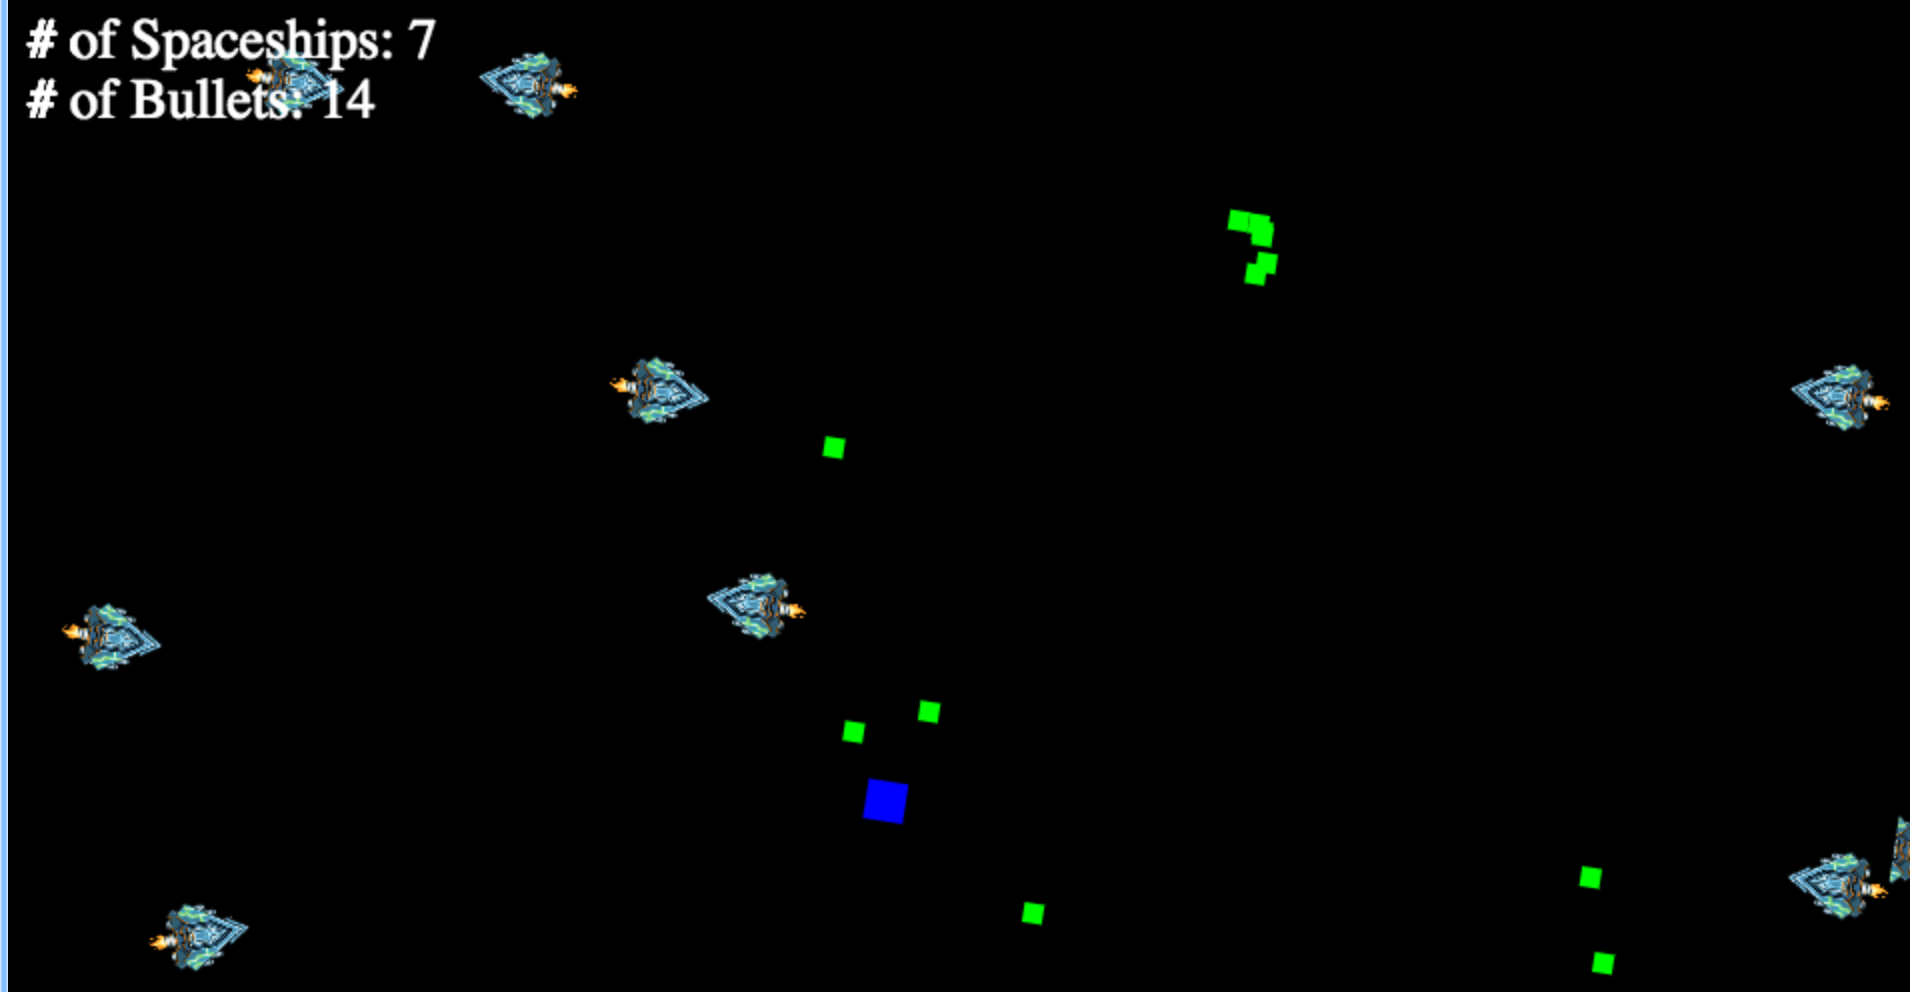
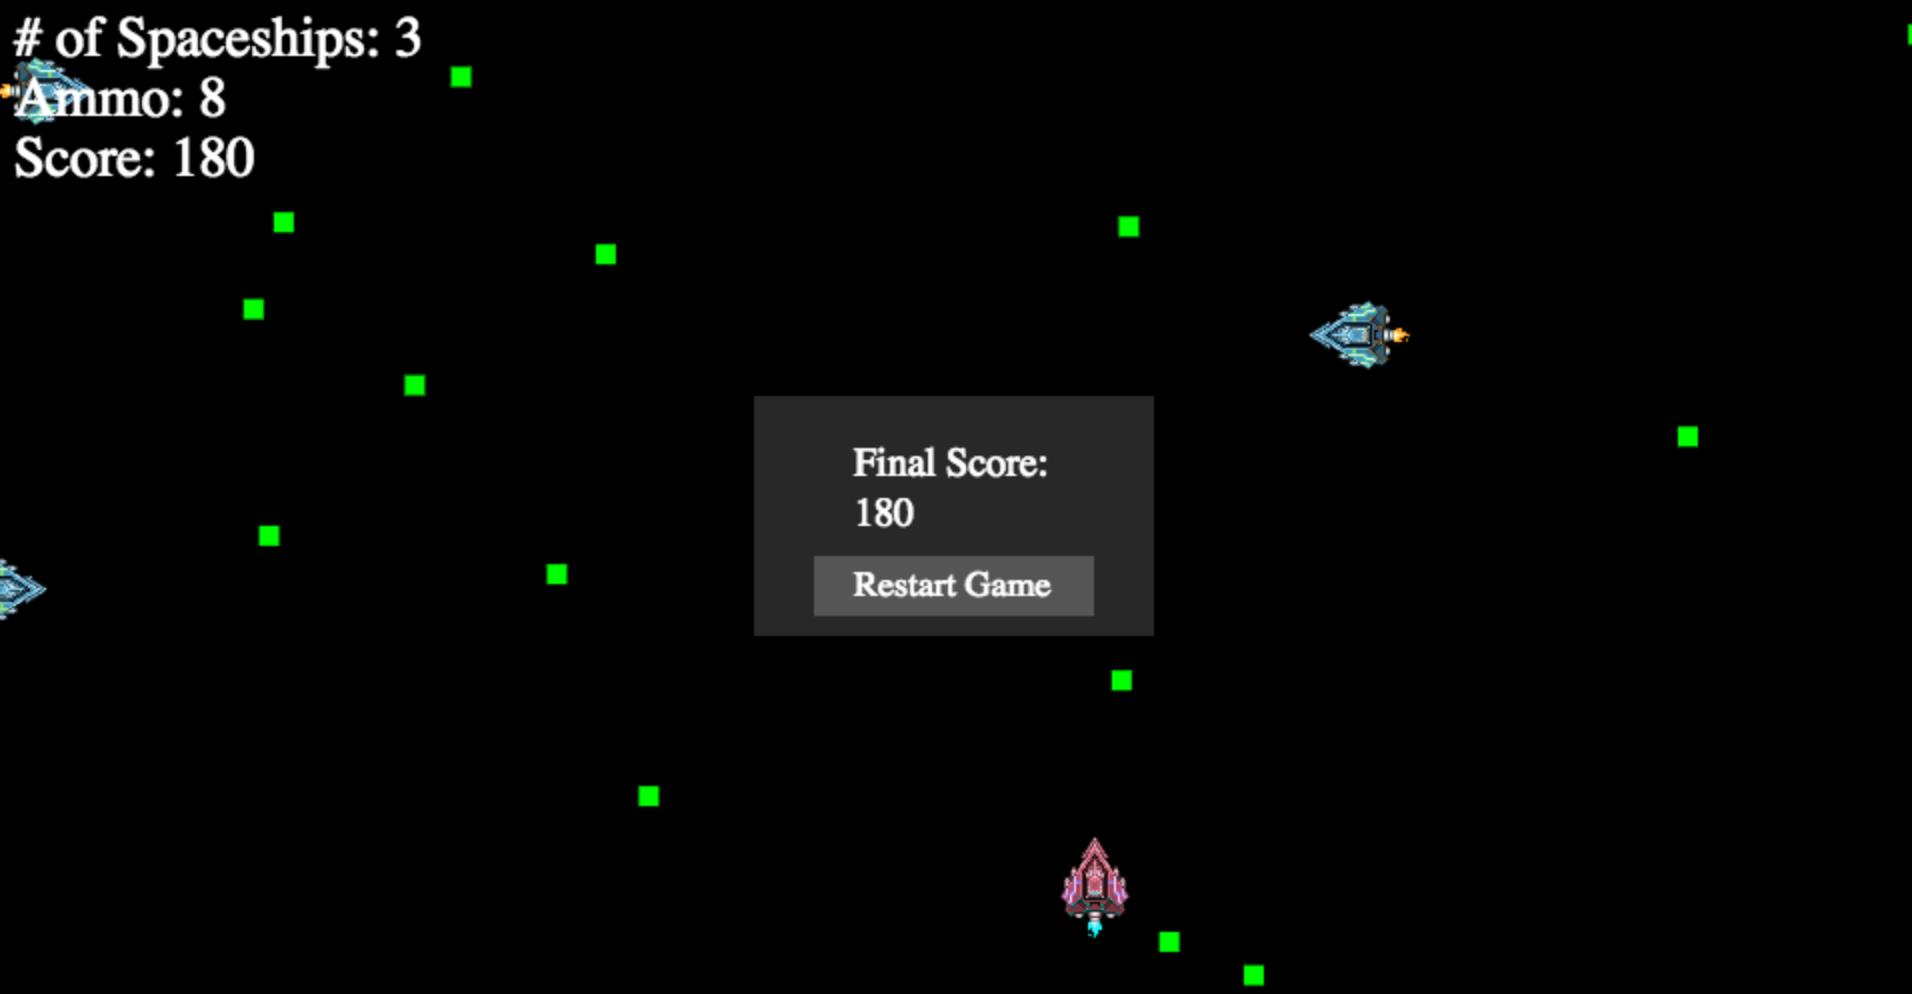
Game clears all bullets. Resume added to bottom of landing. Updated game image to current version.

diff --git a/templates/hello.html b/templates/hello.html
@@ -31,7 +31,7 @@
       </div>
 
     </div>
-    <div class="row text-center"><small>This page is under construction.</small></div>
+    <div class="row text-center"><small><a href="/cv">This page is under construction.</a></small></div>
     
 
   </div>

diff --git a/http.py b/http.py
@@ -1,4 +1,4 @@
-from flask import Flask, render_template, send_file, request
+from flask import Flask, render_template, send_file, request, flash
 import json
 
 app = Flask(__name__)
